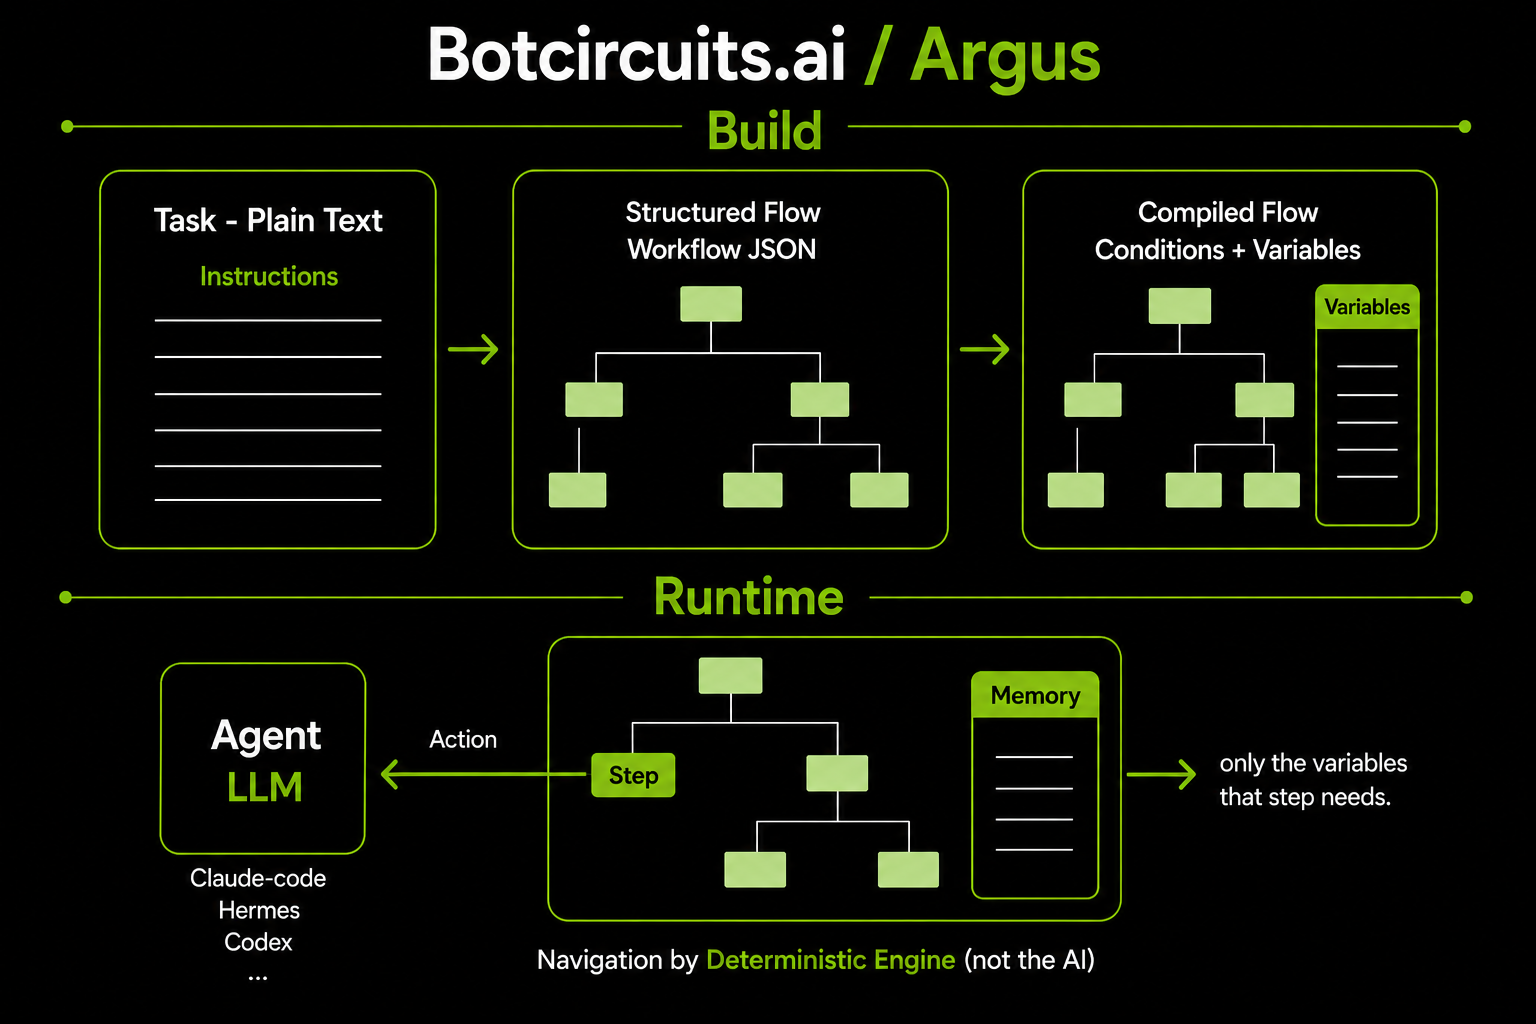
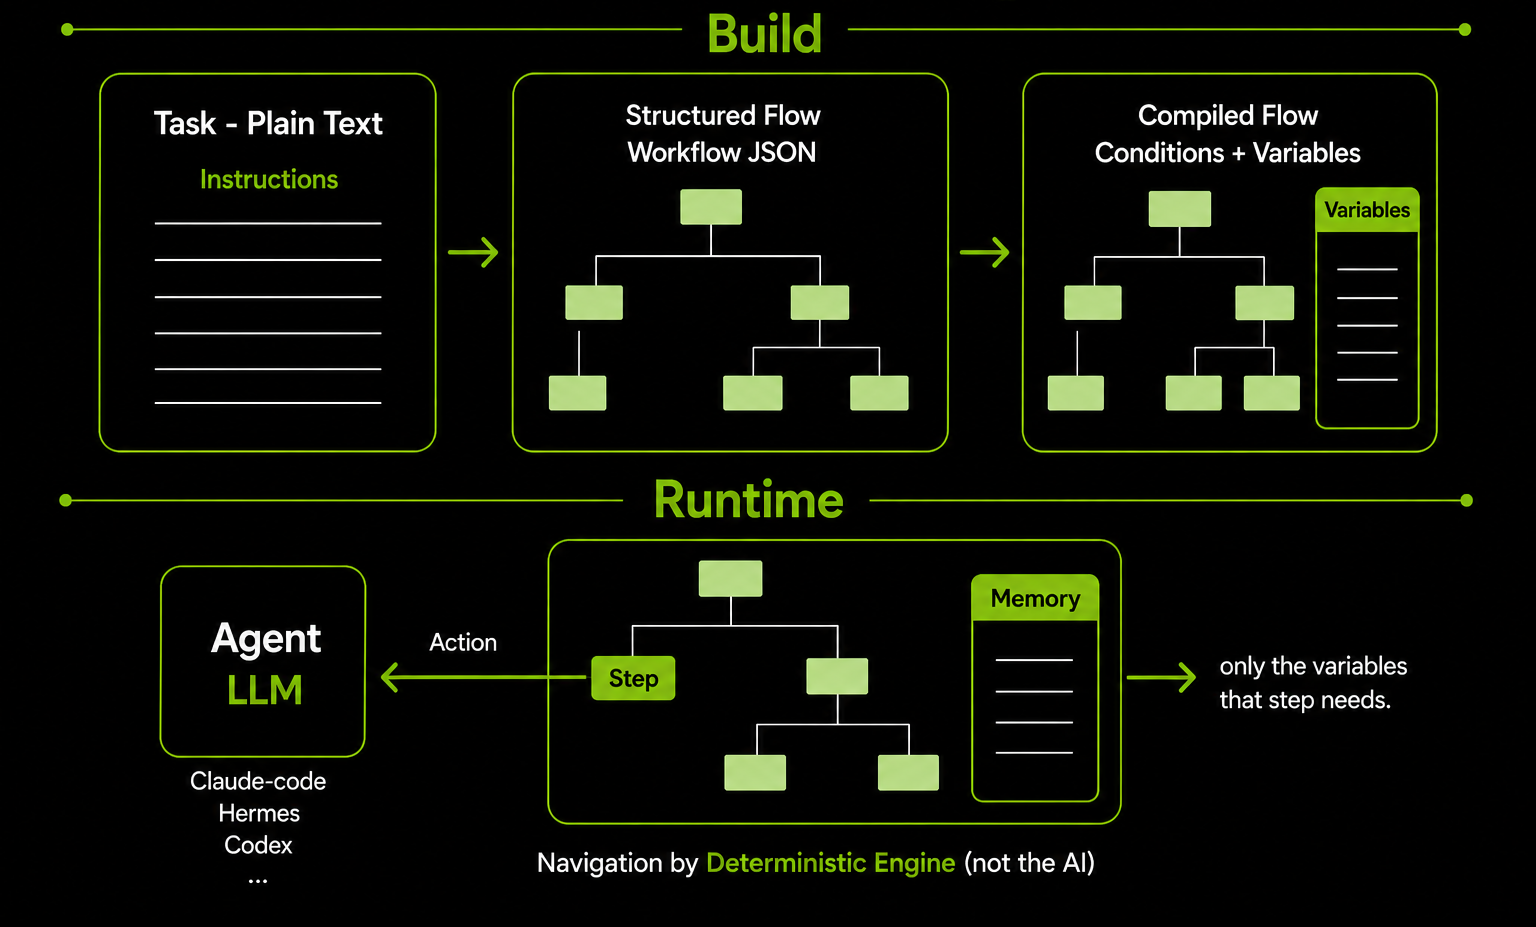
update image

diff --git a/README.md b/README.md
@@ -8,7 +8,7 @@
 
 An agent skill (Claude, Hermes, etc.) that runs your repetitive workflows **predictably**, **traceably**, and **cost-efficiently** — cutting **~90%** of tokens usage while keeping full accuracy.
 
-![botcircuits-agent-solution](docs/comparison.png)
+![botcircuits-agent-solution](docs/solution.png)
 
 ```
 claude > "create an order fulfillment workflow with stock check, ship, and backorder branches"